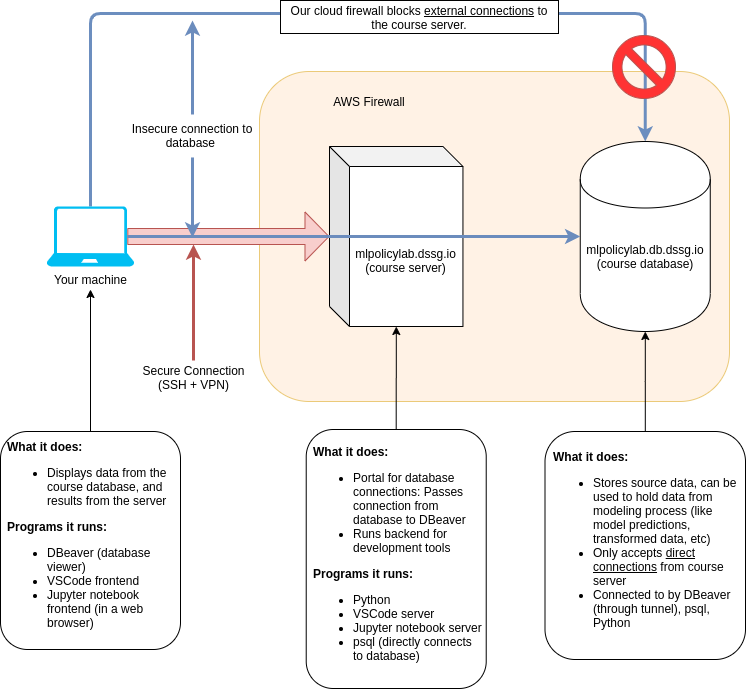
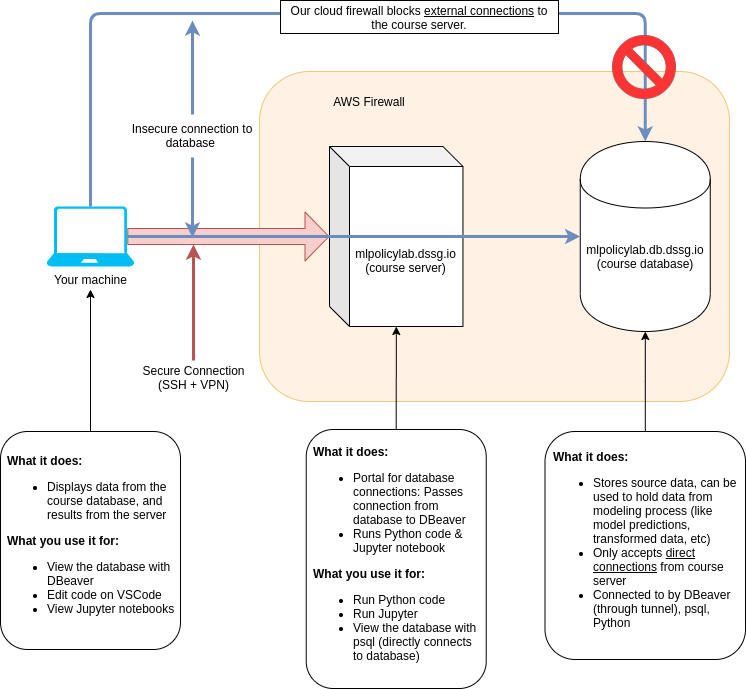
More edits to remote workflow notes

Changed region(s): [[0.0, 0.6401, 0.2158, 0.9144], [0.4008, 0.762, 0.6475, 0.9144]]

diff --git a/techhelp/remote-workflow/remote-workflow.md b/techhelp/remote-workflow/remote-workflow.md
@@ -156,7 +156,14 @@ Conceptually, this similar to how VSCode works over SSH:
    1. Open a web browser and navigate to http://localhost:8888. If that doesn't work, try:
       - http://0.0.0.0:8888/
       - http://127.0.0.1:8888/
-   2. This should take you to a login page asking you to enter the token generated in step 4.2 - if that's the case, you're ready to go!
+   2. If this is your first time opening Jupyter, this should take you to a login page asking you to enter the token generated in step 4.2. Enter that token to proceed.
+   3. In the next screen (which should be a view of the folders and files in your working directory):
+      - To create a new notebook, click the `New` dropdown, and select your group's name. This will create a new notebook using your group's virtual environment.
+
+      ![](img/jupyter_kernel.png)
+      - Double click an existing notebook to open it. Inside, navigate to `Kernel` -> `Change kernel` -> select your group's name. This will ensure the open notebook runs with your group's virtual environment
+
+      ![](img/jupyter-notebook-kernel.png)
 
 ## Living in the command line
 
@@ -232,69 +239,68 @@ Opens the manual page for the command in question. Many commands also offer a he
 
 ### Some key command line tools
 
-At first, it can be tough to do basic things like browsing folders or editing text in the command line. But Linux includes a lot of helpful tools for these kinds of tasks. Here are a few to get you started:
+At first, it can be tough to do basic things like browsing folders or editing text in the command line. But Linux includes a lot of helpful tools for these kinds of tasks. In this section, we'll show how to use some of these tools to get around the terminal.
+
+Follow along by executing the commands on the numbered lines.
+
+1. Connect to the course server with SSH (if you aren't already)
+
 
 **Getting oriented:**
 
-Tools for navigating the filesystem:
+Let's start by getting our bearings inside of the filesystem.
 
-```
+First, let's figure out where we are, with `pwd`:
+
+`pwd` prints the **absolute path** of the current working directory.
+
+2. Print your current working directory: `pwd`
+
+Next, let's find out what's in our current directory, with `ls`:
+
+```bash
 ls {some_folder (by default, the working directory)}
 ``` 
-List the files in a directory (by default, lists files in the current directory).
+lists the files in a directory.
 
-```
-pwd
-``` 
-Print the **absolute path** of the current working directory.
-
-```
-cd {some path}
-```
-
-Change the working directory
+3. List the files in your home directory: `ls`
 
 **Making files**
 
-```
+Let's start doing some work. Start by using `mkdir` to make a new directory:
+
+```bash
 mkdir {folder_name}
 ``` 
-Create a new folder
+Creates a new folder
+
+4. Make a new directory: `mkdir my_test_dir`
+
+Now, let's change into our new directory to do some work, with `cd`:
+
+```bash
+cd {some path}
 ```
+Changes the working directory
+
+5. Move to your new directory: `cd my_test_dir`
+
+Make a new empty file with `touch`:
+
+```bash
 touch {file_name}
 ``` 
 Create a new file
 
-**Moving, copying and deleting**
+6. Make a new (empty) file: `touch a_test_file`
 
-```
-mv {source} {destination}
-```
-Move the file or folder at source to destination.
-```
-cp {source} {destination}
-```
-Copy the file at source to destination.
-```
-rm {file}
-```
-Remove (delete!) a file
-
-
-```
-cat {filename}
-```
-
-Print the contents of a file (works best with text-based files)
-
-
-**Editing files with Nano**
+**Editing text in the command line**
 
 Nano is a barebones text editor available on most Linux computers. While it's not as nice to use as something like VSCode, it's still quite convenient for making quick edits from the command line.
 
 Start Nano like any other command line tool:
 
-```
+```bash
 nano filename
 ```
 
@@ -308,21 +314,55 @@ If you make changes and exit, Nano will display the following message, asking if
 
 ![](img/bash-nano-save.png)
 
-### Try it out:
-1. Log into the course server with SSH
-2. Print your current working directory: `pwd`
-3. List the files in your home directory: `ls`
-4. Make a new directory: `mkdir my_test_dir`
-5. Move to your new directory: `cd my_test_dir`
-6. Make a new (empty) file: `touch a_test_file`
-7. Open it with `nano`, and put some text in it:
+
+**Let's try it out:**
+
+7. Open the file you created in step 6 with `nano`, and put some text in it:
    1. `nano a_test_file`
    2. Type something you learned in this tech session
    3. press `ctrl+c`, then `y` to save and exit
+
+Let's use `cat` to make sure our changes worked:
+
+```bash
+cat {filename}
+```
+
+Prints the contents of a file (works best with text-based files)
+
 8. Print the contents: `cat a_test_file`
-9. Make a copy: `cp a_test_file another_one`
+
+**Moving files**
+
+Let's learn some tools for manipulating existing files.
+
+Let's start by copying our text file, with `cp`:
+
+```bash
+cp {source} {destination}
+```
+Copies the file at source to destination.
+
+9.  Make a copy of your file, named "another_one": `cp a_test_file another_one`
+
+Now, let's move that new file, with `mv`:
+
+```bash
+mv {source} {destination}
+```
+Moves the file or folder at source to destination.
+
 10. Move the copy to your home directory: `mv another_one ~/`
+
+Finally, let's delete that file with `rm` (turns out we didn't need it after all)
+
+```bash
+rm {file}
+```
+Remove (delete!) a file
+
 11. Remove the copy file: `rm ~/another_one`
+
 
 ## Understanding the 10718 remote workflow
 
